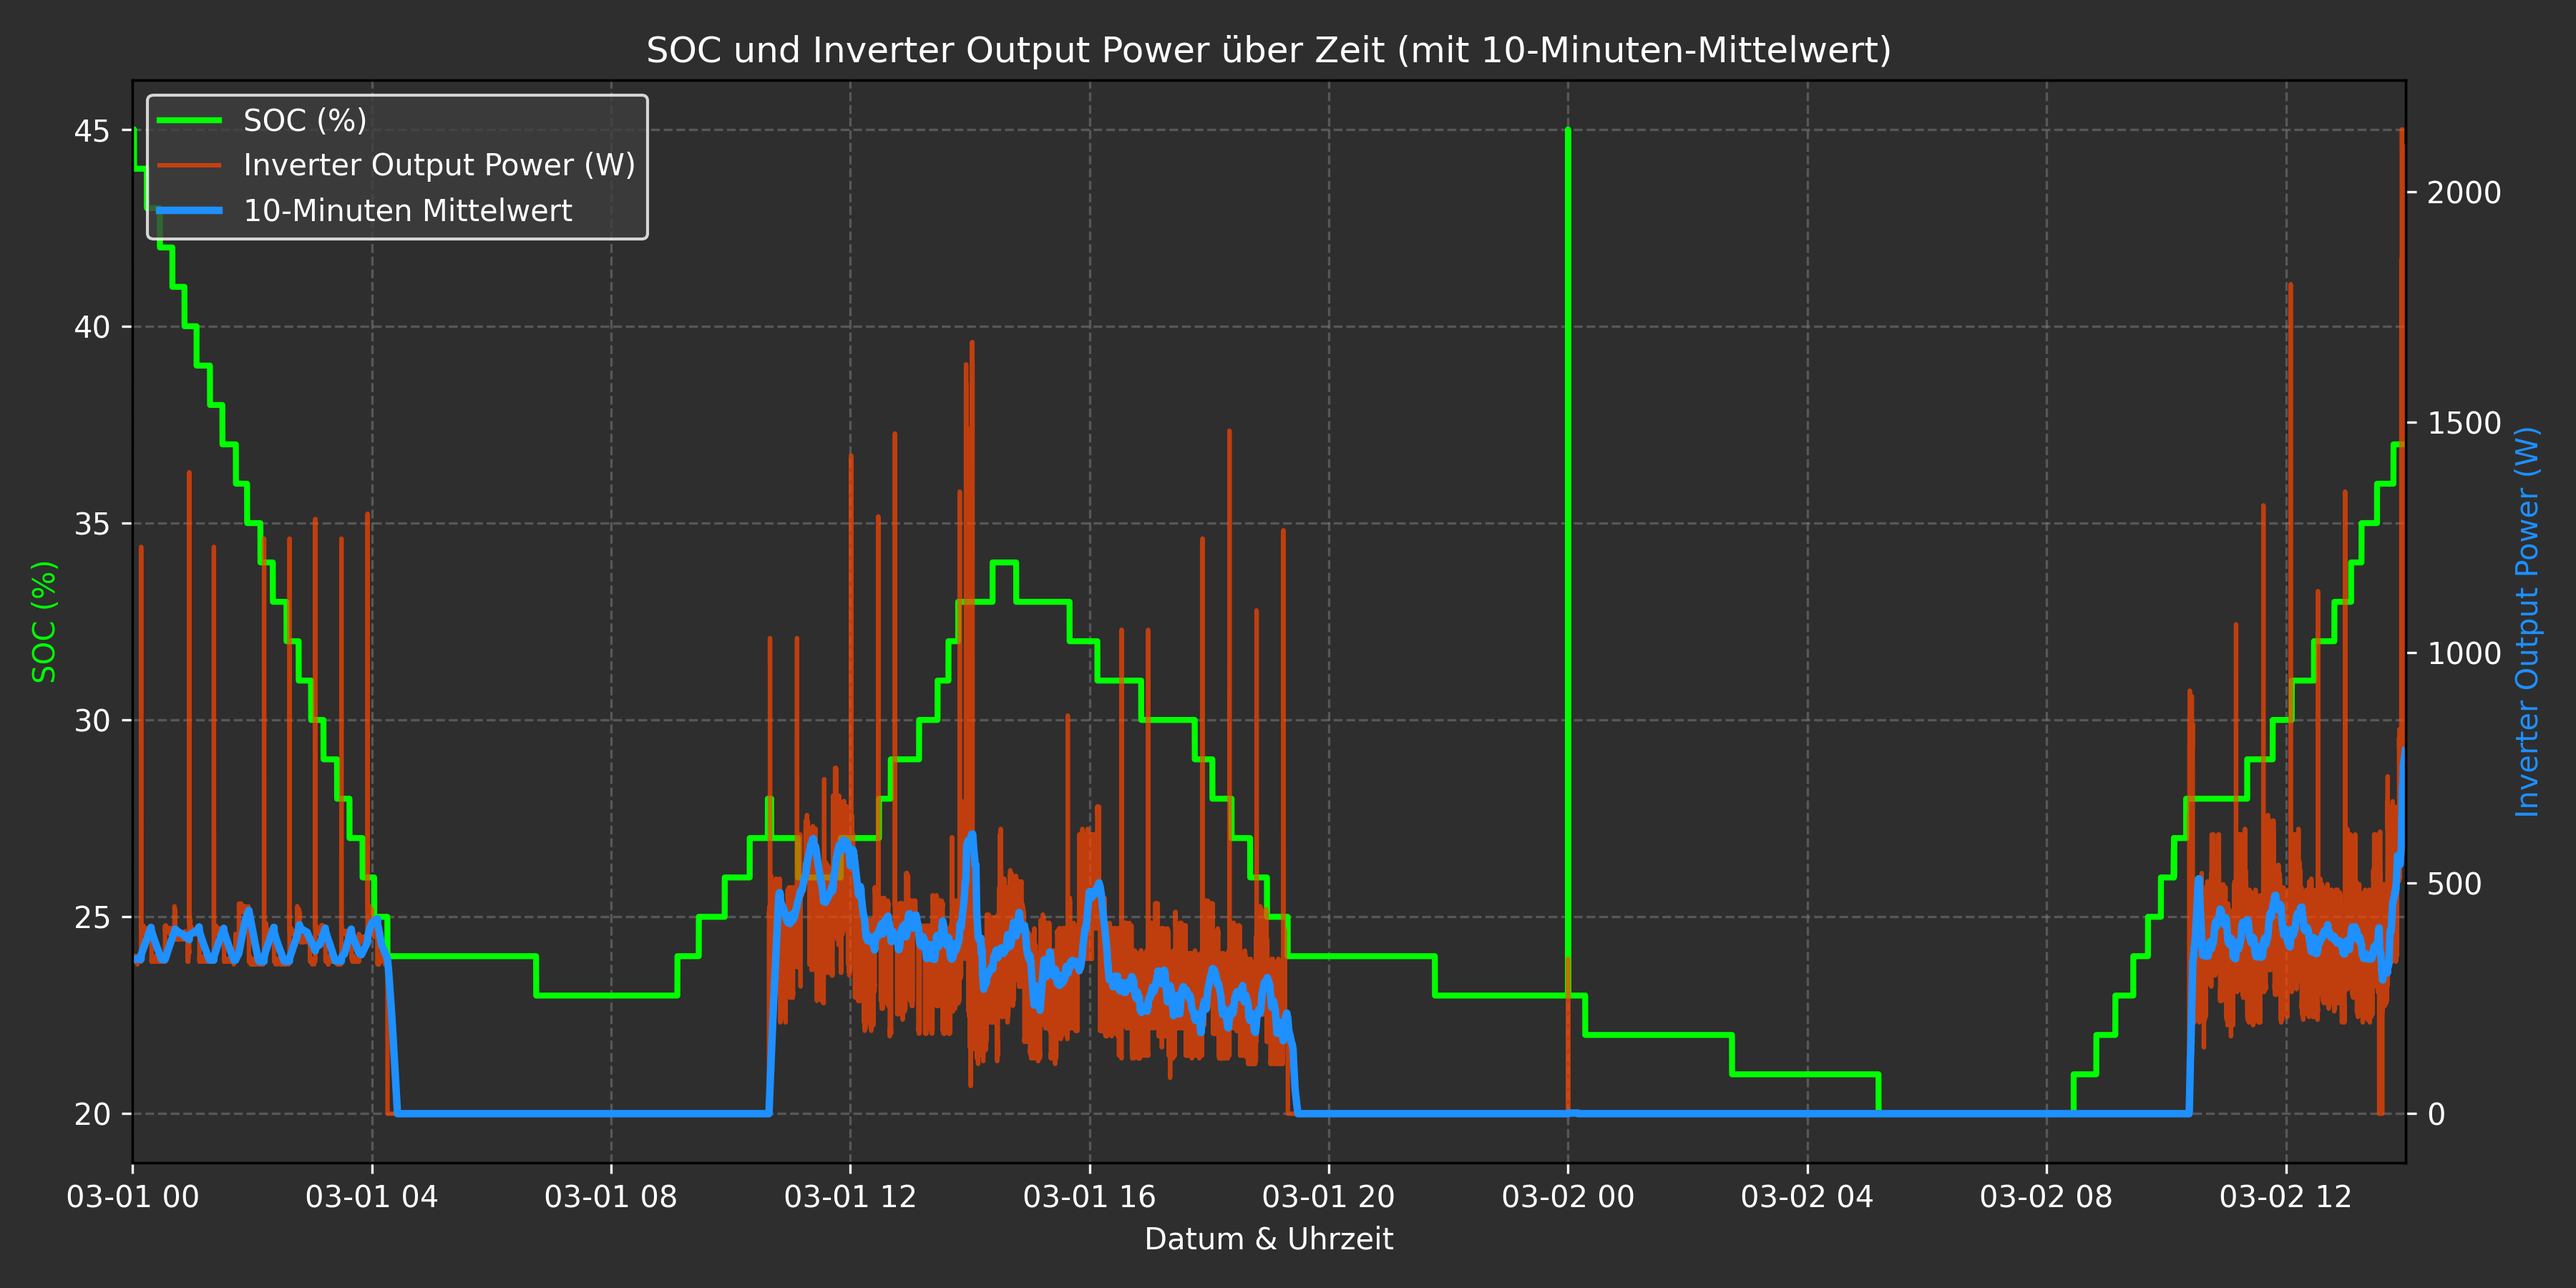
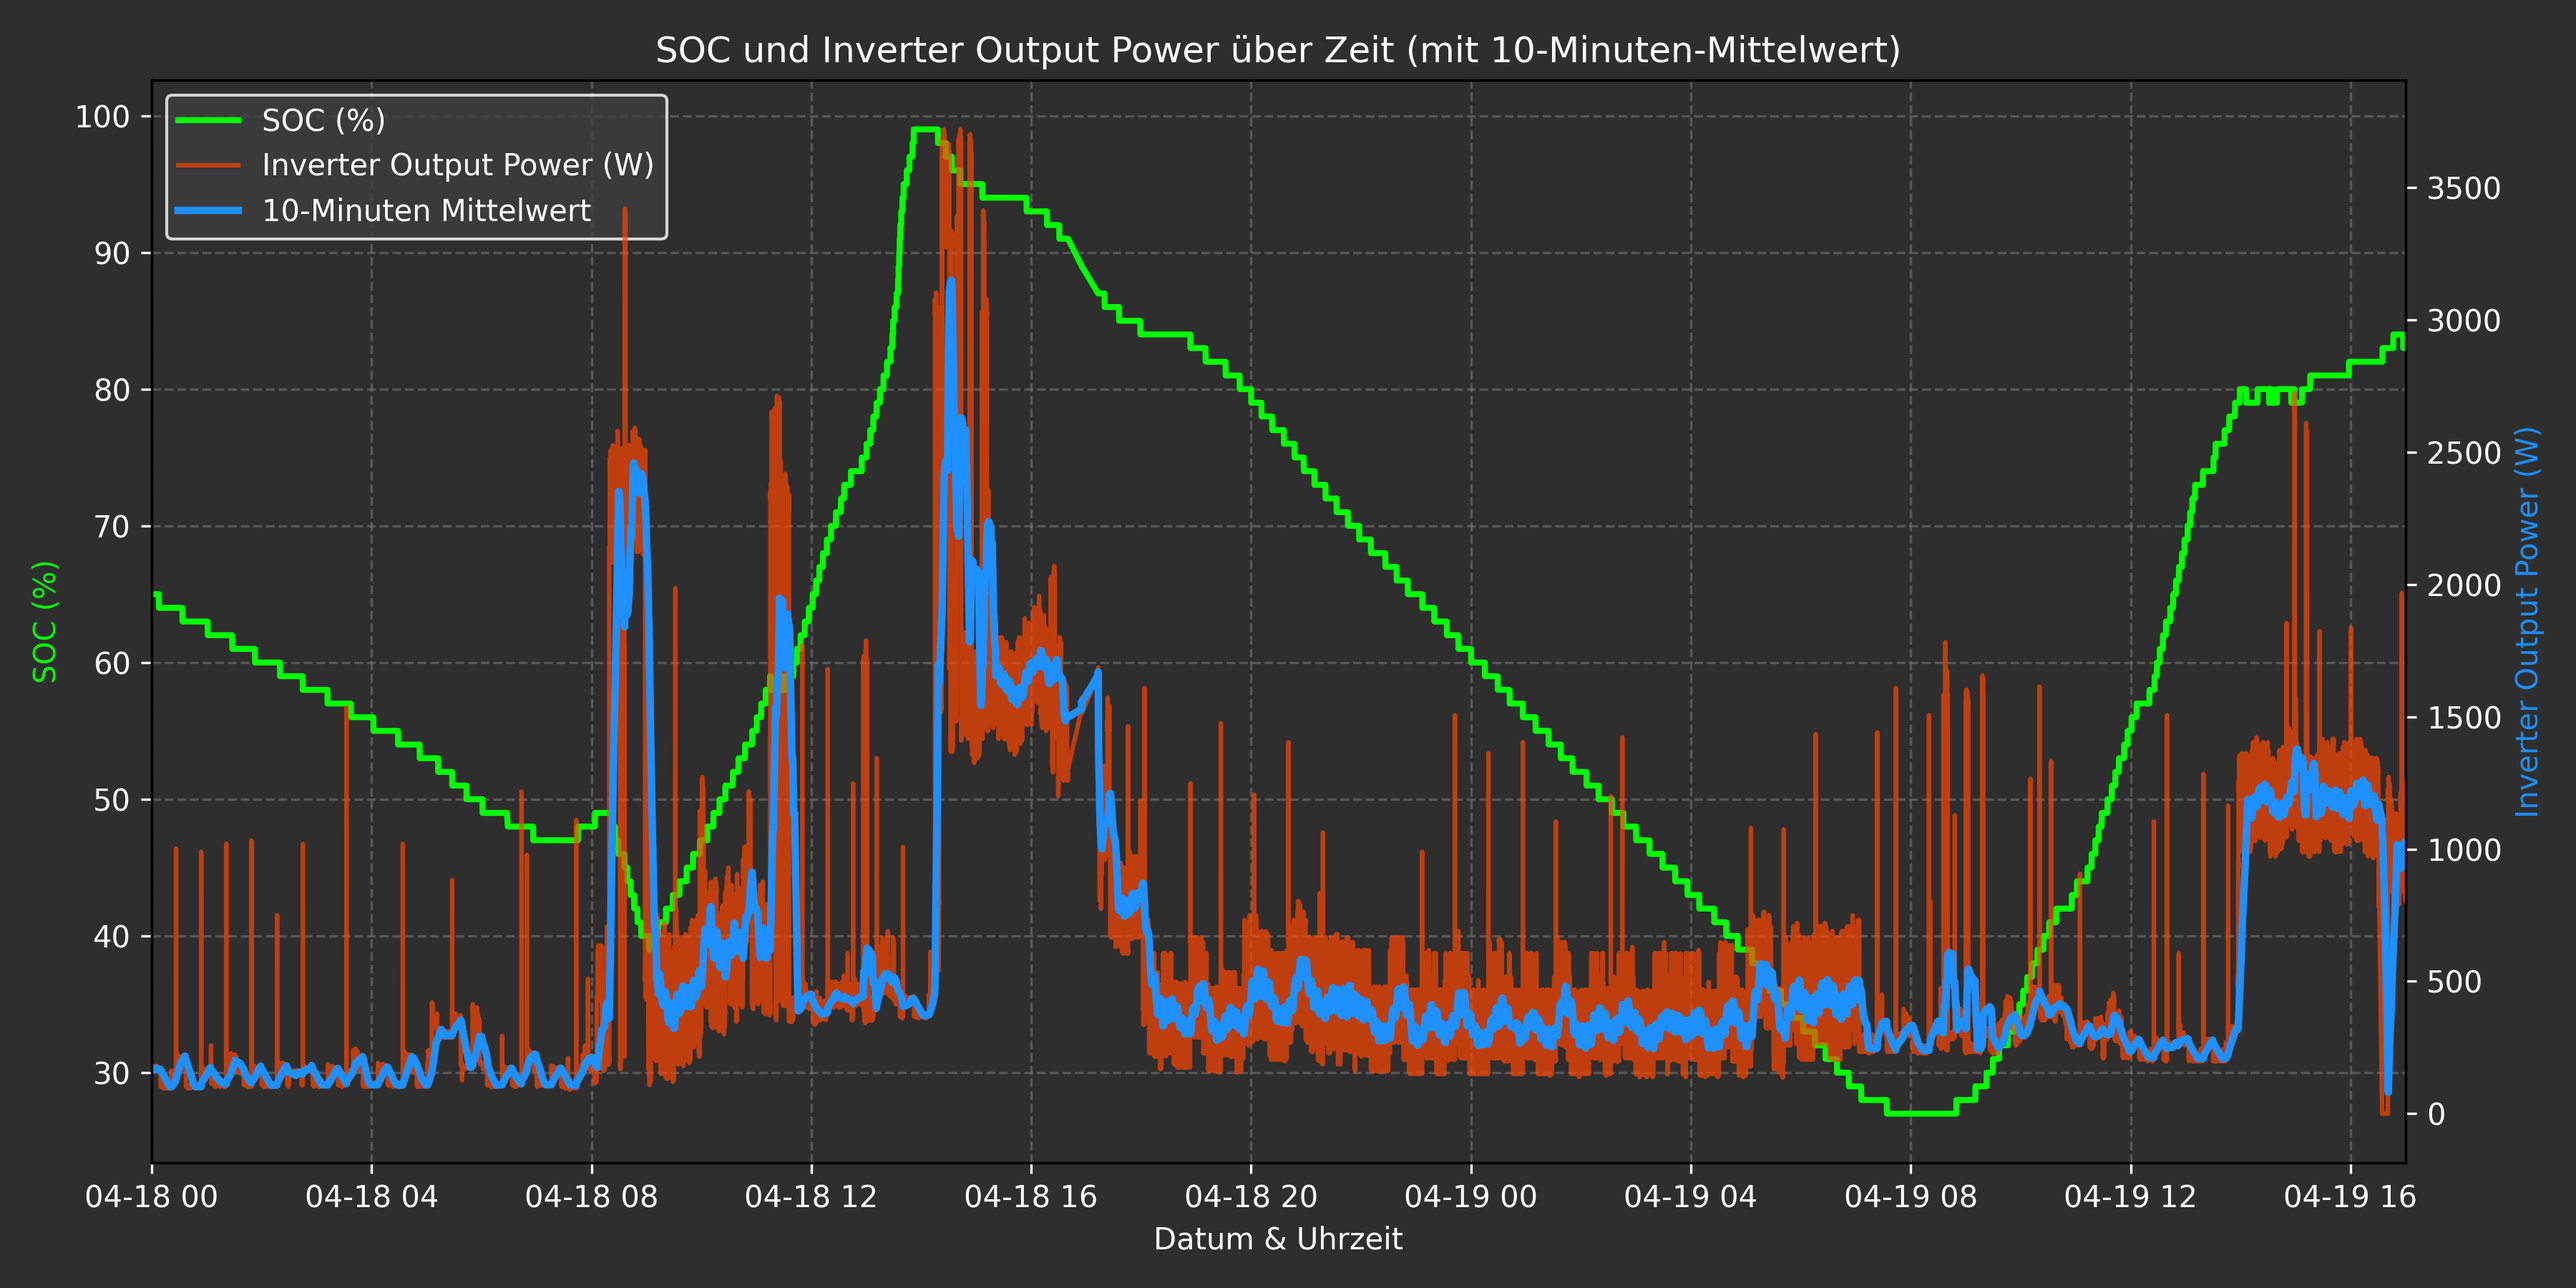
optimiert für schnellere UI

diff --git a/static/js/app.js b/static/js/app.js
@@ -151,7 +151,7 @@ document.addEventListener("DOMContentLoaded", () => {
     }
 
     updateAll();
-    setInterval(updateAll, 1000);
+    setInterval(updateAll, 500);
 });
 
 async function updateTemperatures() {

diff --git a/GrowattInverter.py b/GrowattInverter.py
@@ -1,11 +1,12 @@
 import logging
 
 import requests
-
+import time
 from IInverter import IInverter
 from pymodbus.client import ModbusSerialClient
 from MyLogging import Logging
 import traceback
+import threading
 import json
 
 
@@ -18,6 +19,21 @@ class SPF6000Inverter(IInverter):
     _mode : str
     def __init__(self, logger : Logging, port="/dev/ttyUSB0", baudrate=9600, unit=1):
         self.logger = logger
+        self.values = IInverter.InverterValues(
+                VoltageSolar1=0,
+                CurrentSolar1=0,
+                PowerSolar1=0,
+                VoltageSolar2=0,
+                CurrentSolar2=0,
+                PowerSolar2=0,
+                SOC=0,
+                BatteryVoltage=0,
+                BatteryCurrent=0,
+                BatteryPower=0,
+                InverterOutputVoltage=0,
+                InverterOutputPower=0,
+                MainsPower=0,
+            )
         self.client = ModbusSerialClient(
             port=port,
             framer="rtu",
@@ -27,9 +43,27 @@ class SPF6000Inverter(IInverter):
             stopbits=1,
             timeout=2,
         )
+        self.client.connect()
         self.unit = unit
         self.inverterOfflineCounter = 0
         self._mode = "AUTO"
+        try:
+            self.__readValues()
+        except:
+            pass
+        self.thread = threading.Thread(target=self.__threadFunc, daemon=True)
+        self.thread.start()
+
+    def __threadFunc(self):
+        while True:
+            try:
+                self.__readValues()
+            except:
+                self.logger.Error(traceback.format_exc())
+                self.logger.Info("Try reconnect to modbus")
+                if not self.client.connect():
+                    raise self.logger.Error("Failed to connect to modbus")
+            time.sleep(10)
 
     def setMode(self, mode : str):
         self._mode = mode
@@ -60,29 +94,15 @@ class SPF6000Inverter(IInverter):
             regs,
             data_type=self.client.DATATYPE.UINT32,
         )
+    def getValues(self):
+        return self.values
 
-    def getValues(self) -> IInverter.InverterValues:
+    def __readValues(self) -> IInverter.InverterValues:
         #self.logger.Debug("".join(traceback.format_stack()))
         if 0 != self.inverterOfflineCounter:
             self.logger.Debug("Inverter timeout")
             self.inverterOfflineCounter -= 1
-            return IInverter.InverterValues(
-                VoltageSolar1=0,
-                CurrentSolar1=0,
-                PowerSolar1=0,
-                VoltageSolar2=0,
-                CurrentSolar2=0,
-                PowerSolar2=0,
-                SOC=0,
-                BatteryVoltage=0,
-                BatteryCurrent=0,
-                BatteryPower=0,
-                InverterOutputVoltage=0,
-                InverterOutputPower=0,
-                MainsPower=0,
-            )
-        if not self.client.connect():
-            raise ConnectionError("Inverter connection failed")
+            return
 
         try:
             # Solar Strings
@@ -122,7 +142,7 @@ class SPF6000Inverter(IInverter):
             inv_power = 60 * inv_load_percent
             MainsPower = 0
             try:
-                response = requests.get("http://wattwaechter/cm?cmnd=Status%208")
+                response = requests.get("http://wattwaechter/cm?cmnd=Status%208", timeout=10)
                 data = response.json()
                 #self.logger.Debug(f"response from Wattwaechter: {response.status_code} , Data: {json.dumps(data)}")
                 if 200 != response.status_code:
@@ -131,7 +151,7 @@ class SPF6000Inverter(IInverter):
                 else:
                     MainsPower = data.get("StatusSNS", {}).get("MT631", {}).get("P", None)
             except Exception as e:
-                self.logger.Error(e)
+                self.logger.Error(traceback.format_exc())
             if not MainsPower:
                 MainsPower = -1
 
@@ -153,7 +173,7 @@ class SPF6000Inverter(IInverter):
                 MainsPower=int(MainsPower)
             )
             self.logger.Info("Read Inverter Data: " + values.toString())
-            return values
+            self.values = values
 
         except:
             self.logger.Error("Exception while reading inverter values: " + traceback.format_exc())

diff --git a/main.py b/main.py
@@ -8,7 +8,6 @@ from MyLogging import Logging
 from SonoffSwitch import SonoffSwitch
 from FrontendInterface import FrontendInterface
 import time, json
-import threading
 import traceback
 import os
 from webApi import ApiServer
@@ -18,7 +17,7 @@ supplySwitch : SonoffSwitch
 consumerIndex : int
 consumers : list
 inverter : IInverter
-frontEnd : FrontendInterface
+#frontEnd : FrontendInterface
 inverterValues : IInverter.InverterValues
 logger : Logging
 opened_time_Settings : float
@@ -36,7 +35,6 @@ def main():
     consumers = settings.apps
     inverter = SPF6000Inverter(logger)
     supplySwitch = SonoffSwitch(logger)
-    frontEnd = FrontendInterface(logger)
 
     consumers = list()
     for app in settings.apps:
@@ -46,15 +44,18 @@ def main():
     api.start()
 
     inverterValues = inverter.getValues()
-    frontEndThread = threading.Thread(target=frontEndThreadFunc, daemon=True)
-    frontEndThread.start()
-    logger.Debug("Thread started")
 
 
     while(True):
         try:
+            logger.Debug("main loop")
             inverterValues = inverter.getValues()
+            api.renewData()
             if handleHandAuto():
+                time.sleep(1)
+                continue
+            if not inverterValues:
+                logger.Error("No InverterValues")
                 time.sleep(1)
                 continue
             if handleOvercurrent(settings.battery, inverterValues.BatteryCurrent):
@@ -71,16 +72,18 @@ def handleHandAuto():
     mode = inverter.mode()
     if 'on' == mode:
         inverter.setPowerSave(False)
+        logger.Info("Mode is ON - no automatic")
         time.sleep(5)
         supplySwitch.switch(SonoffSwitch.SwitchState.ON)
-        return False
+        return True
     elif 'off' == mode:
         supplySwitch.switch(SonoffSwitch.SwitchState.OFF)
+        logger.Info("Mode is OFF - no automatic")
         time.sleep(1)
         inverter.setPowerSave(True)
-        return False
-    return True
-
+        return True
+    return False
+"""
 def frontEndThreadFunc():
     global logger
     logger.Debug("Frontend Tread started")
@@ -90,7 +93,7 @@ def frontEndThreadFunc():
         except:
             logger.Error("sendTo Frontend failed: " + traceback.format_exc())
         time.sleep(1)
-
+"""
 def checkSettings():
     global opened_time_Settings, consumers, logger
     if opened_time_Settings != os.path.getmtime("Settings.xml"):
@@ -119,7 +122,7 @@ def handleMinimalSOC(batterySettings : BatterySettings, soc : int):
     global state, logger
     logger.Debug("Check SOC")
     if batterySettings.minimumSOC > soc:
-        logger.Debug("SOC to low: " + str(soc) + "% < " + str(batterySettings.minimumSOC) + "%" )
+        logger.Debug("SOC too low: " + str(soc) + "% < " + str(batterySettings.minimumSOC) + "%" )
         switchSolarSupply(False)
         switchOffConsumers()
         timeout(5)
@@ -142,14 +145,24 @@ def handleNextConsumer(batterySettings : BatterySettings, inverterSettings : Inv
     # eingeschaltet, ansonsten wird einer ausgeschaltet
     logger.Debug("Consumer " + str(consumerIndex))
     if 'on' == consumer.mode.lower():
-        logger.Debug(f"Consumer {consumerIndex} is ON")
+        logger.Debug(f"Consumer {consumers[consumerIndex].name} is ON")
         consumer.approve(0)
+        consumer.push()
+        consumerIndex += 1
+        if consumerIndex >= len(consumers):
+            consumerIndex = 0
+        return
     elif 'off' == consumer.mode.lower():
-        logger.Debug(f"Consumer {consumerIndex} is OFF")
+        logger.Debug(f"Consumer {consumers[consumerIndex].name} is OFF")
         consumer.prohibit(True)
+        consumer.push()
+        consumerIndex += 1
+        if consumerIndex >= len(consumers):
+            consumerIndex = 0
+        return
     if noAuto:
         if 'auto' == consumer.mode.lower():
-            logger.Debug(f"Consumer {consumerIndex} is OFF")
+            logger.Debug(f"Consumer {consumers[consumerIndex].name} is OFF")
             consumer.prohibit(True)
         logger.Debug("NO AUTO")
         consumer.push()

diff --git a/webApi.py b/webApi.py
@@ -12,6 +12,7 @@ from Consumer import Consumer
 from Settings import Settings
 import traceback, json, requests
 from TempReader import TempReader
+from concurrent.futures import ThreadPoolExecutor
 
 
 class ConsumerBody(BaseModel):
@@ -47,6 +48,10 @@ class ApiServer:
         self.app.mount("/static", StaticFiles(directory="static"), name="static")
         self.templates = Jinja2Templates(directory="templates")
         self._thread = None
+        self.table_data = []
+        self.executor = ThreadPoolExecutor(max_workers=5)
+        self.__checkConfig()
+        self.tempReader = TempReader()
         self._setup_routes()
 
     def getApp(self):
@@ -54,9 +59,23 @@ class ApiServer:
     def getThread(self):
         return self._thread
 
+    def renewData(self):
+        self.__checkConfig()
+        self.__readTemperatures()
+
+    def __checkConfig(self):
+        # config.json laden
+        try:
+            with open("config.json", "r") as f:
+                self.config = json.load(f)
+        except Exception as e:
+            print("Fehler beim Laden der config.json:", e)
+            return []
+
+
     def _setup_routes(self):
         @self.app.get("/api/inverterValues", summary="Liefert aktuelle Inverter Werte")
-        def get_inverter_values():
+        async def get_inverter_values():
             return {"values": self.inverter.getValues().toJson()}
 
         @self.app.get("/api/get_consumers", summary="Liefert aktuelle Consumers und deren Status")
@@ -133,42 +152,34 @@ class ApiServer:
                 return {"status": "Error"}
 
     def getTemperatures(self):
-        # TempReader liefert lokale Sensorwerte
-        tempReader = TempReader()
-        values = tempReader.getValues()
+        return self.table_data
 
-        table_data = []
+    def __readTemperatures(self):
+        values = self.tempReader.getValues()
 
-        # config.json laden
-        try:
-            with open("config.json", "r") as f:
-                config = json.load(f)
-        except Exception as e:
-            print("Fehler beim Laden der config.json:", e)
-            return []
-
-        # Lokale Sensoren
-        for setting in config:
+        def process(setting):
+            cfg = self.config[setting]
             temp = None
-            if "id" in config[setting] and config[setting]["id"] in values:
-                val = values[config[setting]["id"]].get("temperature")
+
+            if "id" in cfg and cfg["id"] in values:
+                val = values[cfg["id"]].get("temperature")
                 if val != "":
                     try:
                         temp = float(val)
                     except:
-                        temp = None
+                        pass
 
-            # Externe Sensoren über URL
-            if "url" in config[setting]:
+            if "url" in cfg:
                 try:
-                    res = requests.get(config[setting]["url"], timeout=2)
+                    res = requests.get(cfg["url"], timeout=2)
                     temp = float(res.text.replace(",", "."))
                 except:
                     temp = None
 
-            table_data.append({"name": setting, "temp": temp})
+            return {"name": setting, "temp": temp}
+        results = list(self.executor.map(process, list(self.config.keys())))
 
-        return table_data
+        self.table_data = results
 
     def start(self):
         """Startet den Server in einem separaten Thread."""

diff --git a/test/TempPullerTest.py b/test/TempPullerTest.py
@@ -1,0 +1,24 @@
+from TempPuller import TempPuller
+import time
+
+class LoggerMock():
+    def __init__(self):
+        pass
+    def Debug(self, msg):
+        print("DEBUG: " + msg)
+    def Error(self, msg):
+        print("ERROR: " + msg)
+    def Info(self, msg):
+        print("INFO: " + msg)
+
+logger = LoggerMock()
+
+def callback (msg, temp):
+    print(f"{msg}: {str(temp)} °")
+    exit(0)
+
+puller = TempPuller(logger )
+puller.addSensor("http://tempSEnsorPool/temp", callback, "Bad: " )
+
+while True:
+    time.sleep(1)
